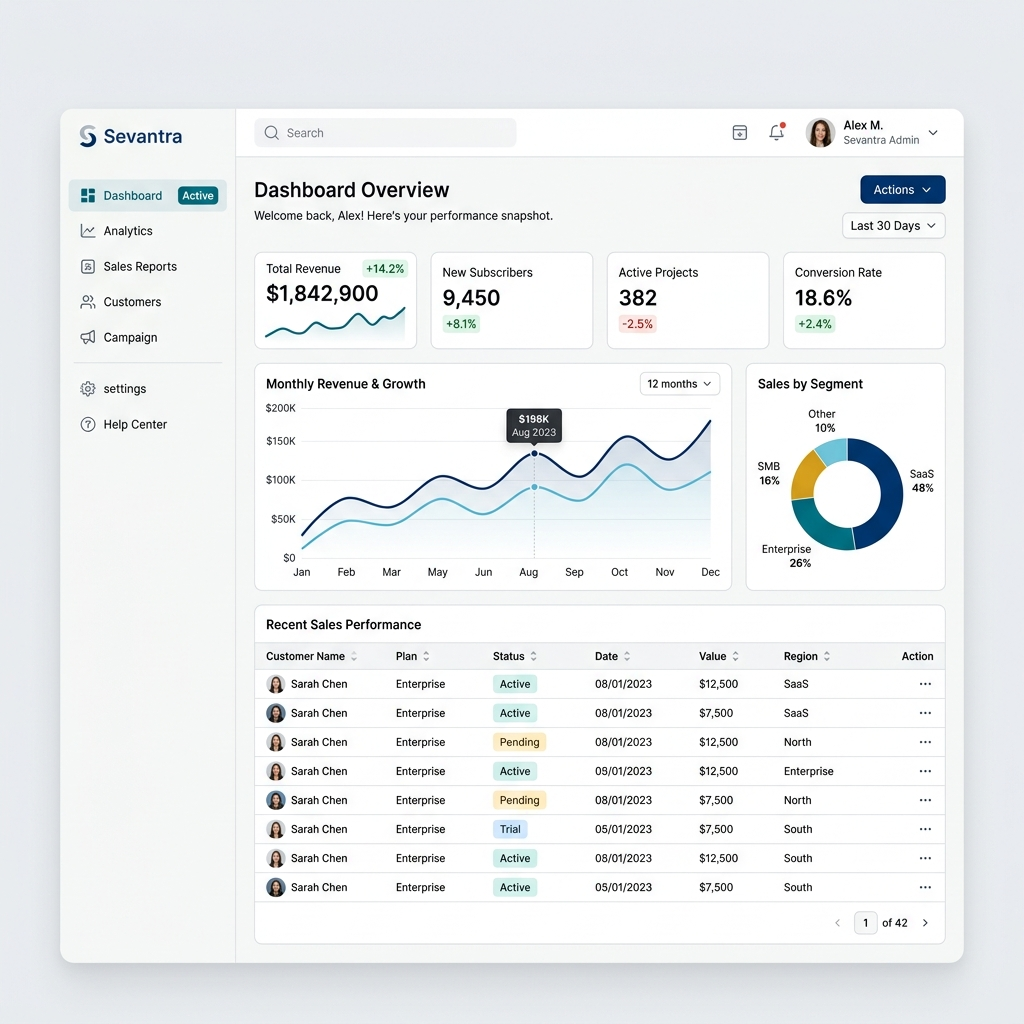
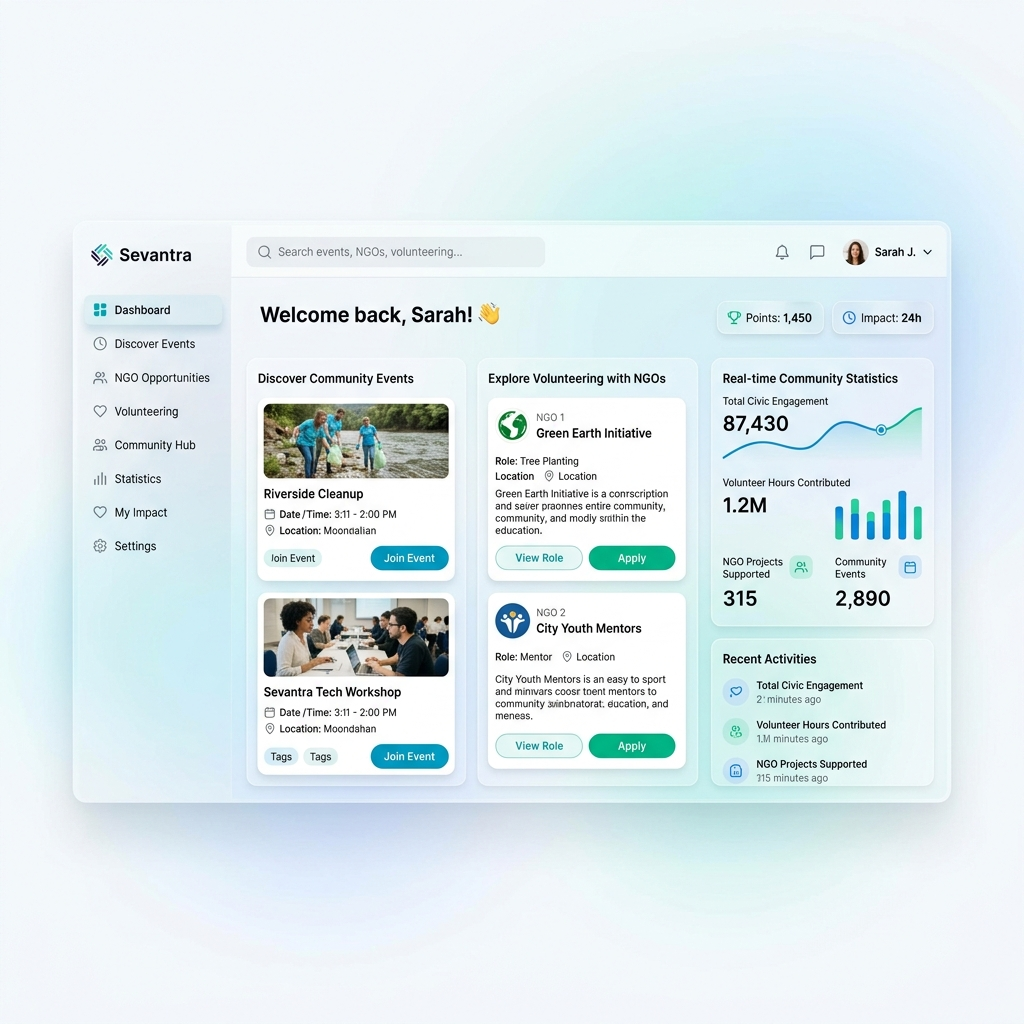
fix: update sevantra details and image

diff --git a/src/components/Projects.tsx b/src/components/Projects.tsx
@@ -40,10 +40,10 @@ const allProjects = [
     },
     {
         title: 'Sevantra',
-        subtitle: 'SaaS Analytics Dashboard',
-        description: 'A high-end SaaS platform providing advanced analytics and seamless data management for modern businesses. Features real-time charts, predictive insights, and a highly responsive corporate interface.',
-        tech: ['Next.js', 'React', 'Tailwind', 'Chart.js'],
-        link: '#',
+        subtitle: 'Civic Engagement Platform',
+        description: 'A comprehensive monorepo platform designed to bridge the gap between citizens and NGOs. Features secure Google OAuth, real-time dynamic statistics, and an admin command center for verifying organizations.',
+        tech: ['Next.js', 'Express', 'Prisma', 'PostgreSQL'],
+        link: 'https://sevantra-web.vercel.app',
         github: 'https://github.com/aditya-manas02/sevantra',
         image: sevantraImg,
         live: false,